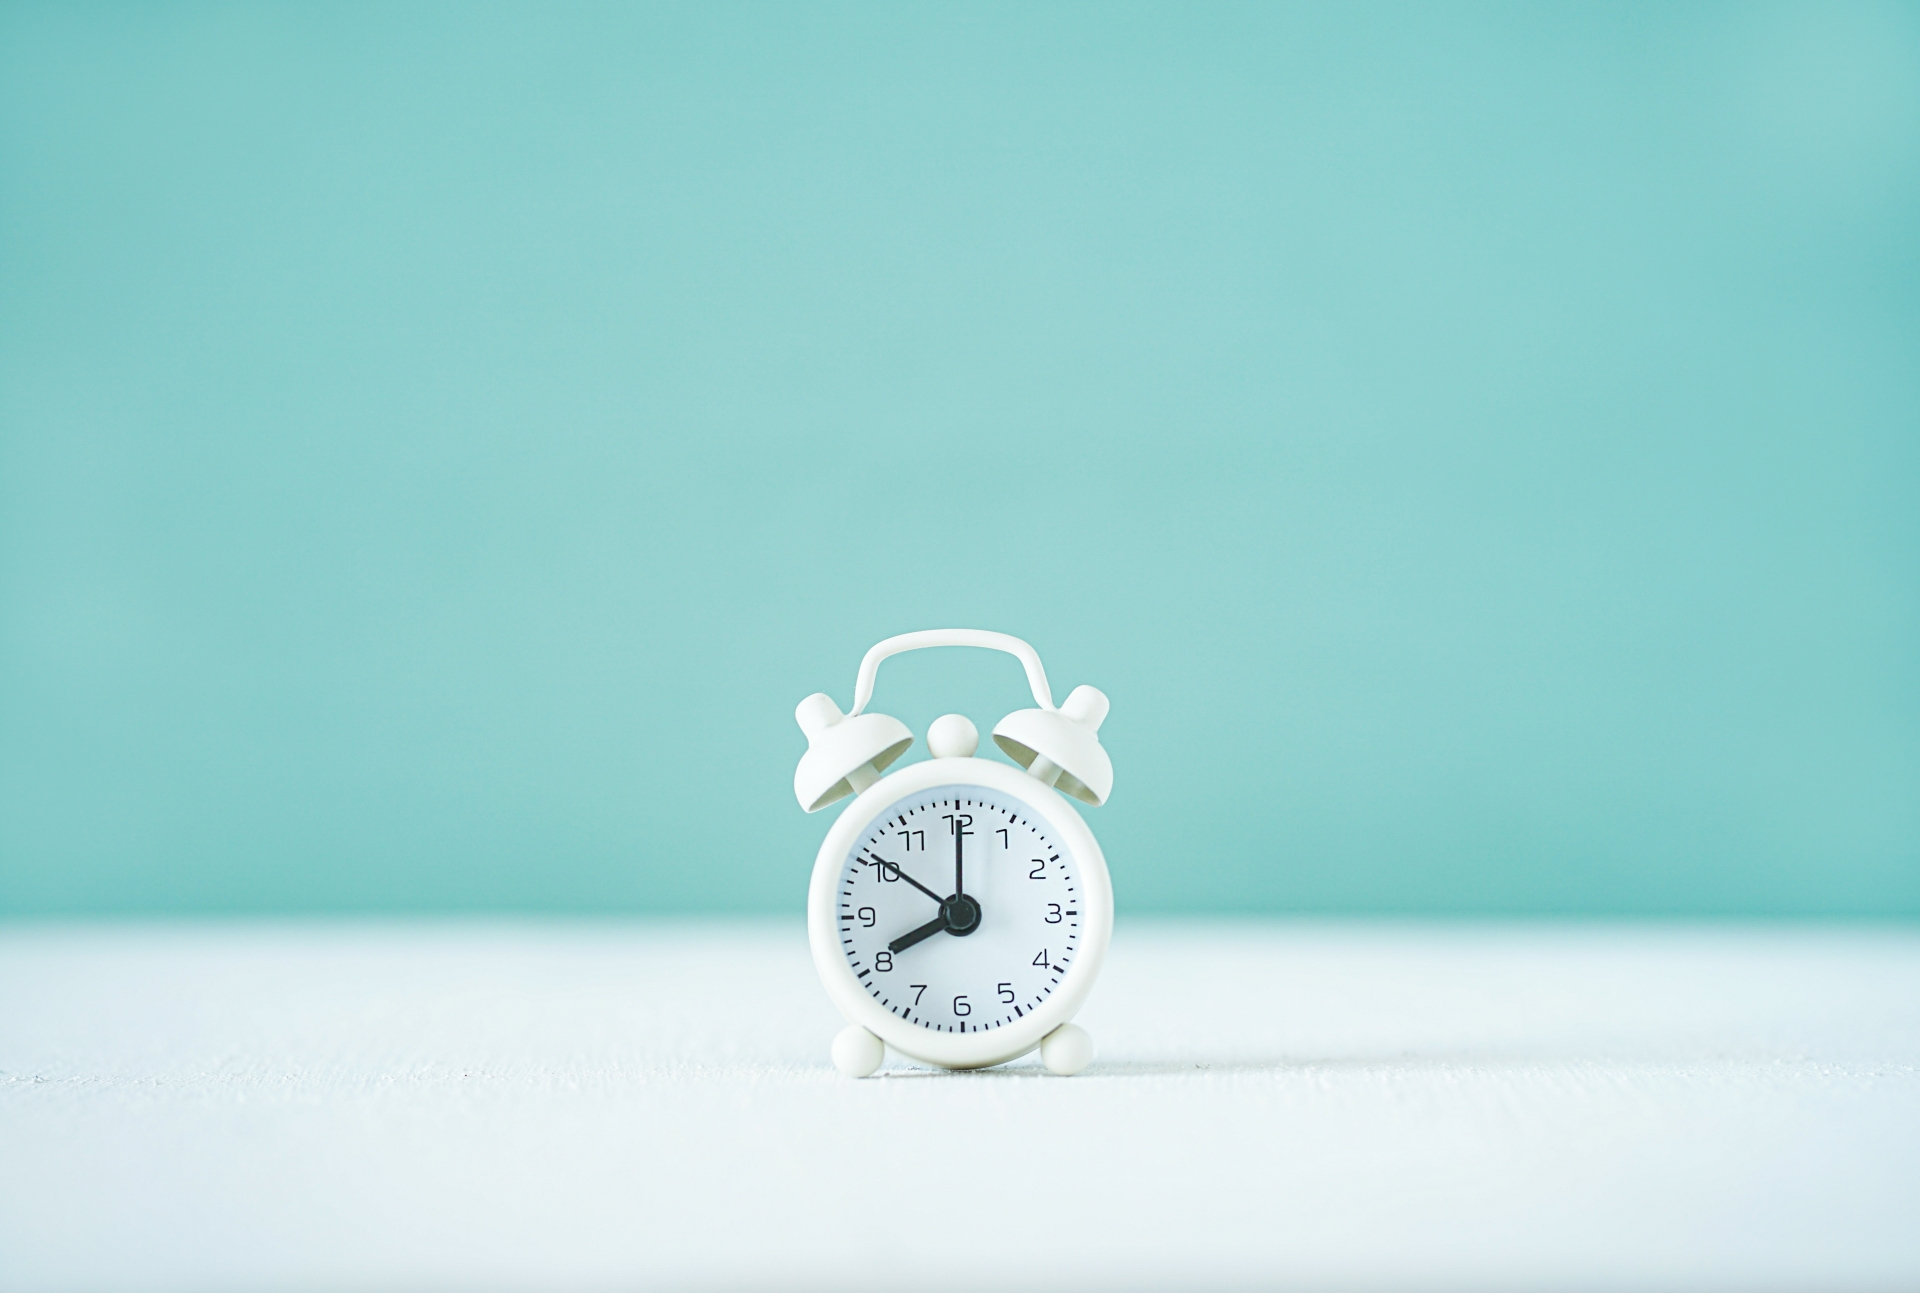
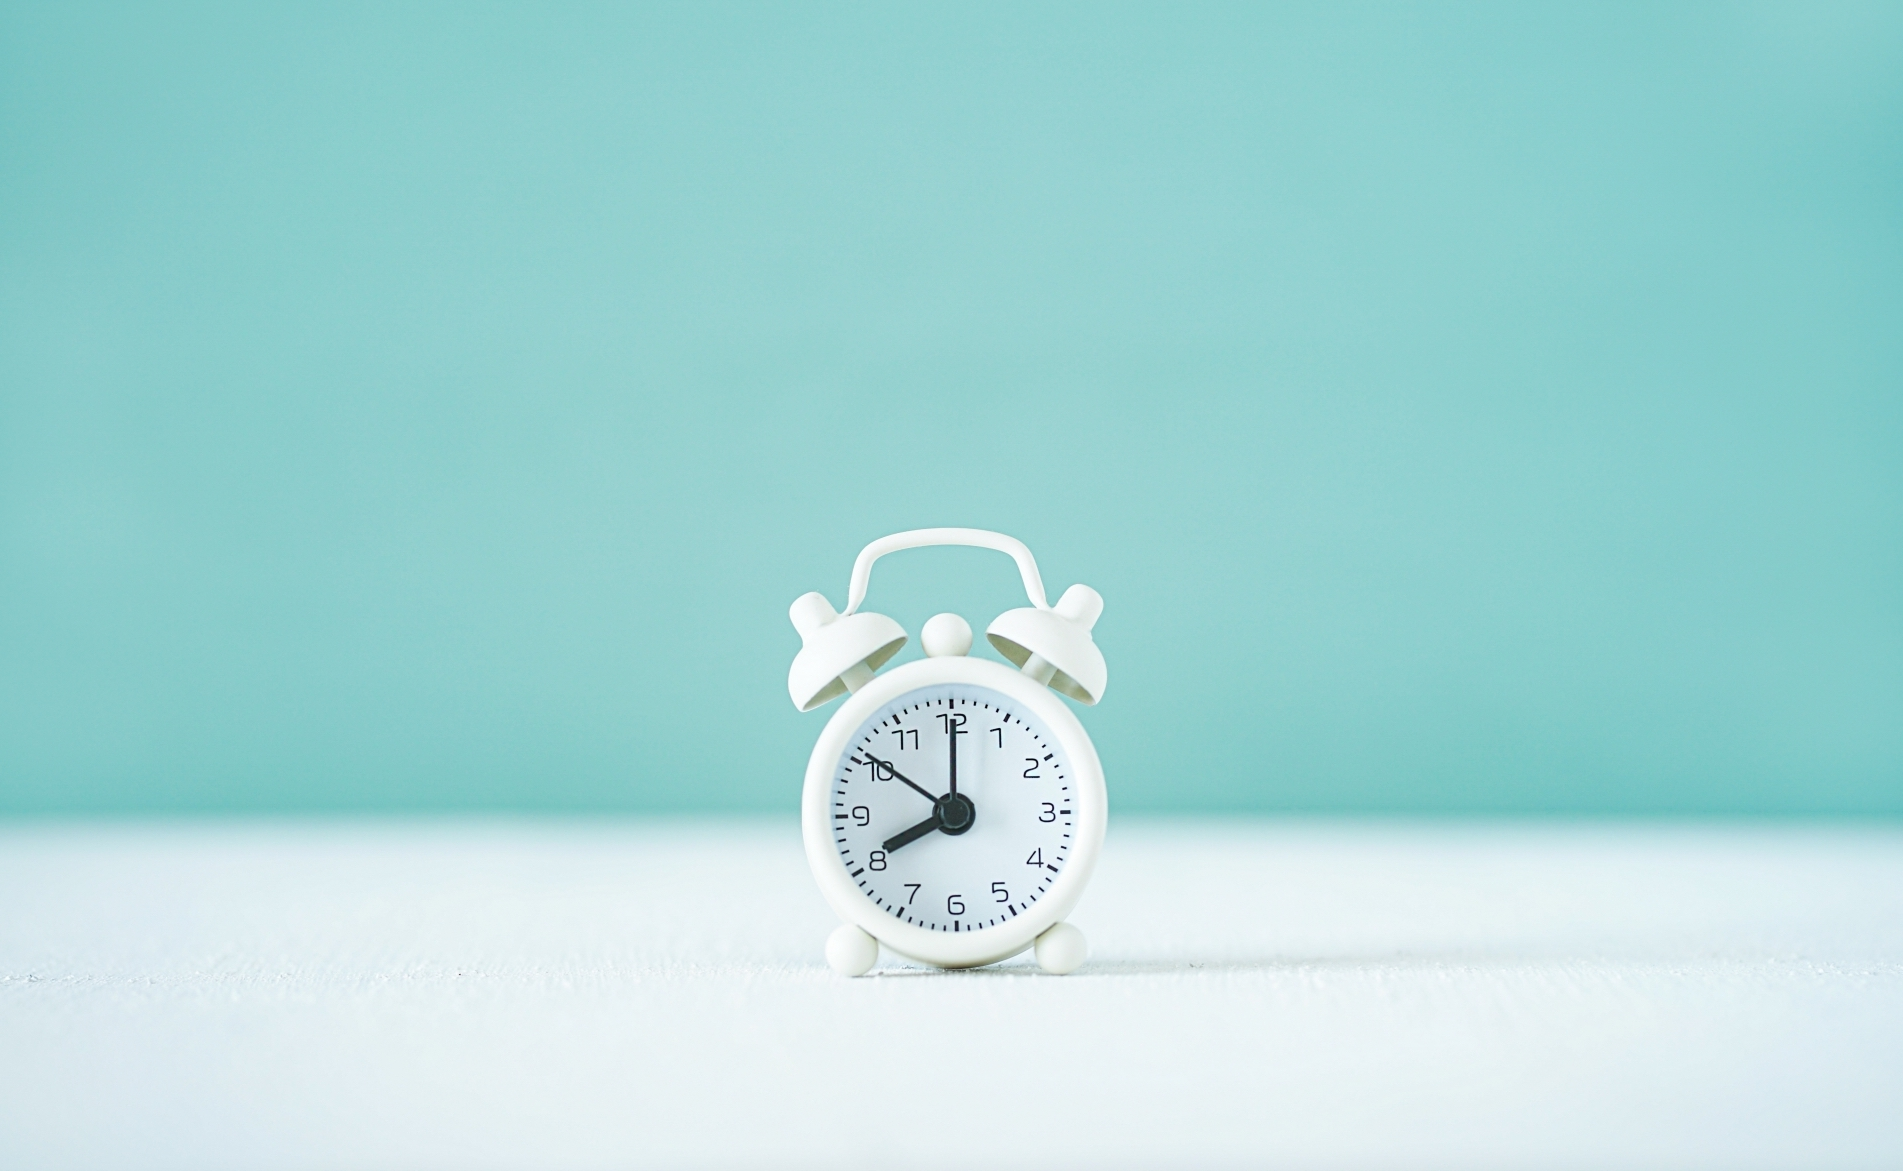
Improve：LPの背景画像のスタイルを調整

Changed region(s): [[0.0, 0.4304, 1.0, 0.7993]]

diff --git a/app/assets/stylesheets/static_pages.scss b/app/assets/stylesheets/static_pages.scss
@@ -236,11 +236,11 @@ header {
 
   .app_title {
     background-image: image-url("lp_image/top_image.jpg");
-    background-size: contain;
+    background-size: cover;
     background-position: center;
     background-position: top;
     background-repeat: no-repeat;
-    height: 60em;
+    height: 70em;
 
     .alert {
       text-align: center;
